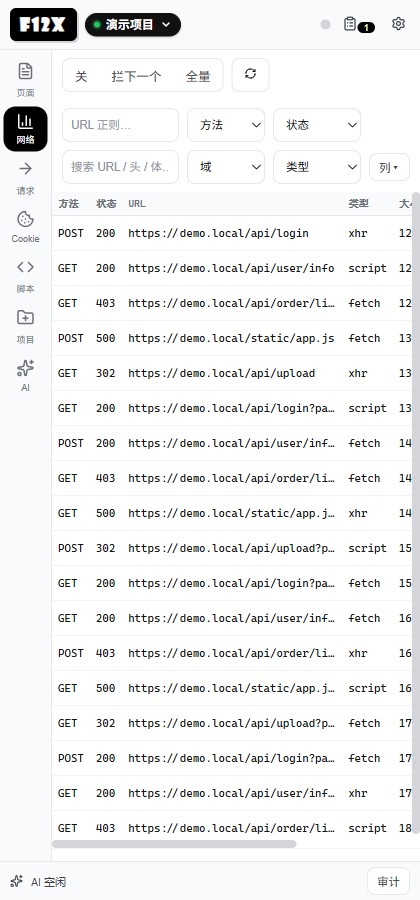
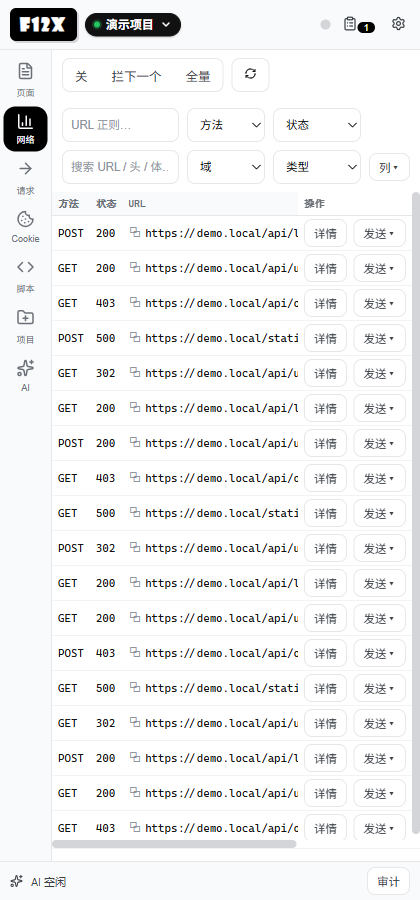
fix: 网络 URL 与 Cookie 值可看全、可复制
- 通用 copyText（Clipboard API + execCommand 降级 + toast）
- 网络：URL 单元格内嵌 ⧉ 复制完整 URL；详情顶部固定完整 URL 条 + 「复制 URL」；操作列吸附右侧
- Cookie：始终取回真实值（显示由「显示值」控制，复制不再受开关影响）；勾选时明文显示且长值换行；点击值复制；行内「复制」；工具栏「复制全部」（name=value; domain; path）
- 表格：Cookie 表 width=max-content，避免列被压成单字；掩码/明文两种显示
验证：dev/run.mjs 76/76；UI：URL 复制 167 字符、Cookie 值 47 字符复制成功、掩码下仍可复制、复制全部成功，0 pageerror；手册与截图同步。

Changed region(s): [[0.3095, 0.2178, 0.8048, 0.9333], [0.8357, 0.2178, 0.9905, 0.9333]]

diff --git a/sidepanel/panel.js b/sidepanel/panel.js
@@ -290,6 +290,29 @@ const F12X_ERR_TEXT = {
   TOOL_EXECUTION_ERROR: "工具执行失败", NOT_FOUND: "资源不存在", ABORTED: "已中止"
 };
 // 错误响应对象 → 用户可读文本（有码取映射文案；无码回退原始 error——存量数据兼容）
+// 通用复制：优先 Clipboard API，失败降级 execCommand（扩展页 / 无权限场景）
+async function copyText(text, label = "已复制") {
+  const t = String(text == null ? "" : text);
+  if (!t) { toast("没有可复制的内容"); return false; }
+  let ok = false;
+  try {
+    await navigator.clipboard.writeText(t);
+    ok = true;
+  } catch (e) {
+    try {
+      const ta = document.createElement("textarea");
+      ta.value = t;
+      ta.style.cssText = "position:fixed;left:-9999px;top:0;opacity:0";
+      document.body.appendChild(ta);
+      ta.select();
+      ok = document.execCommand("copy");
+      ta.remove();
+    } catch (e2) { ok = false; }
+  }
+  toast(ok ? (label + "（" + t.length + " 字符）") : "复制失败，请手动选中复制");
+  return ok;
+}
+
 function errMsg(r) {
   const c = r && r.code;
   const m = c && F12X_ERR_TEXT[c];
@@ -732,7 +755,7 @@ function renderNetworkTable() {
     ${pageItems.map(it => `
       <tr data-id="${esc(it.id)}" class="${app.network.selectedId === it.id ? "selected" : ""}">
         ${cols.map(([k]) => k === "url"
-          ? `<td title="${esc(it.url)}">${esc(it.url || "")}</td>`
+          ? `<td class="url-cell" title="${esc(it.url)}"><span class="url-copy" data-copy-url="${esc(it.id)}" title="复制完整 URL">⧉</span>${esc(it.url || "")}</td>`
           : k === "src"
             ? `<td class="src-${esc(it.source || "page")}">${esc(it.source || "page")}${it.intercepted ? " ⚡" : ""}</td>`
             : `<td>${esc(it[k] != null ? String(it[k]) : "-")}</td>`).join("")}
@@ -763,6 +786,12 @@ function renderNetworkTable() {
       openNetworkDetail(id);
       renderNetworkTable();
     });
+    const urlCopy = tr.querySelector(".url-copy");
+    if (urlCopy) urlCopy.addEventListener("click", (e) => {
+      e.stopPropagation();
+      const item = app.network.items.find(i => i.id === id);
+      if (item) copyText(item.url, "已复制 URL");
+    });
     const detailBtn = tr.querySelector('[data-act="detail"]');
     if (detailBtn) detailBtn.addEventListener("click", () => { app.network.selectedId = id; openNetworkDetail(id); renderNetworkTable(); });
     const sendBtn = tr.querySelector('[data-act="send"]');
@@ -781,8 +810,17 @@ function ensureDetailActions(item) {
     actions.className = "net-detail-actions";
     $("net-detail-tabs").parentNode.insertBefore(actions, $("net-detail-tabs"));
   }
+  let urlBar = document.querySelector("#net-detail .net-detail-url");
+  if (!urlBar) {
+    urlBar = document.createElement("div");
+    urlBar.className = "net-detail-url";
+    urlBar.title = "完整 URL（可选中复制）";
+    $("net-detail-tabs").parentNode.insertBefore(urlBar, actions);
+  }
+  urlBar.textContent = item ? (item.url || "") : "";
   if (item) {
     actions.innerHTML = `
+      <button class="mini-btn" data-st="copyurl" title="复制完整 URL">复制 URL</button>
       <button class="mini-btn" data-st="repeater">→ Repeater</button>
       <button class="mini-btn" data-st="intruder">→ Intruder</button>
       <button class="mini-btn" data-st="decoder">→ Decoder</button>
@@ -790,6 +828,7 @@ function ensureDetailActions(item) {
       <button class="mini-btn" data-st="ai">→ AI</button>
       <button class="mini-btn" data-st="mark">标记为发现</button>
       <button class="mini-btn" data-st="issue">→ Issue</button>`;
+    actions.querySelector('[data-st="copyurl"]').addEventListener("click", () => copyText(item.url, "已复制 URL"));
     actions.querySelector('[data-st="repeater"]').addEventListener("click", () => sendToRepeater(item));
     actions.querySelector('[data-st="intruder"]').addEventListener("click", () => sendToIntruder(item));
     actions.querySelector('[data-st="decoder"]').addEventListener("click", () => sendToDecoder(item));
@@ -1308,13 +1347,20 @@ async function decRun() {
 // ============================================================
 function initCookieModule() {
   $("cookie-refresh").addEventListener("click", loadCookies);
+  const copyAll = $("cookie-copy-all");
+  if (copyAll) copyAll.addEventListener("click", () => {
+    const lines = cookieData.filter((c) => c.value).map((c) => c.name + "=" + c.value + "; domain=" + c.domain + "; path=" + c.path);
+    if (!lines.length) return toast("没有可复制的 Cookie 值");
+    copyText(lines.join("\n"), "已复制 " + lines.length + " 条 Cookie");
+  });
   $("cookie-filter").addEventListener("input", renderCookies);
   $("cookie-show-values").addEventListener("change", () => { loadCookies(); });
 }
 
 let cookieData = [];
 async function loadCookies() {
-  const includeValues = $("cookie-show-values").checked;
+  // 始终取回真实值：界面按开关决定是否明文显示，复制永远可用
+  const includeValues = true;
   const r = await api("tool:cookies", { includeValues });
   if (!r.ok) { $("cookie-table-wrap").innerHTML = `<div class="placeholder">Cookie 读取失败：${esc(r.error)}</div>`; return; }
   cookieData = r.cookies || [];
@@ -1328,17 +1374,19 @@ function maskVal(v) {
 }
 
 function renderCookies() {
+  const showValues = !!$("cookie-show-values").checked;
   const f = $("cookie-filter").value.toLowerCase();
   const items = cookieData.filter(c => !f || (c.name + c.domain).toLowerCase().includes(f));
   const wrap = $("cookie-table-wrap");
   wrap.innerHTML = `<table class="cookie-table"><thead><tr><th>名称</th><th>值</th><th>域</th><th>路径</th><th>标志</th><th>操作</th></tr></thead><tbody>
     ${items.map(c => `<tr>
       <td>${esc(c.name)}</td>
-      <td class="val cookie-val" data-full="${esc(c.value ?? "")}">${esc(maskVal(c.value))}</td>
+      <td class="val cookie-val${showValues ? " val-full" : ""}" data-full="${esc(c.value ?? "")}" title="${showValues ? "点击复制完整值" : "点击复制完整值（当前掩码显示）"}">${esc(showValues ? (c.value || "") : maskVal(c.value))}</td>
       <td>${esc(c.domain)}</td>
       <td>${esc(c.path)}</td>
       <td>${c.httpOnly ? "H" : ""}${c.secure ? "S" : ""}${c.sameSite ? "·" + esc(c.sameSite) : ""}</td>
       <td>
+        <button class="mini-btn" data-copy="${esc(c.name)}" title="复制完整值">复制</button>
         <button class="mini-btn" data-edit="${esc(c.name)}">编辑</button>
         <button class="mini-btn" data-del="${esc(c.name)}">删除</button>
       </td>
@@ -1348,15 +1396,15 @@ function renderCookies() {
     const c = cookieData.find(x => x.name === b.dataset.edit);
     if (c) editCookie(c);
   }));
-  // 值脱敏（方案 3.1：默认掩码显示，点击切换完整值）
+  // 点击值复制（掩码与否都可复制真实值）
   wrap.querySelectorAll(".cookie-val").forEach(el => {
-    el.title = "点击查看完整值";
-    el.addEventListener("click", () => {
-      const full = el.dataset.full || "";
-      if (el.dataset.masked !== "1") { el.dataset.masked = "1"; el.textContent = full || "…"; el.title = "点击隐藏"; }
-      else { delete el.dataset.masked; el.textContent = maskVal(full); el.title = "点击查看完整值"; }
-    });
+    el.title = "点击复制完整值";
+    el.addEventListener("click", () => copyText(el.dataset.full || "", "已复制 Cookie 值"));
   });
+  wrap.querySelectorAll("[data-copy]").forEach(b => b.addEventListener("click", () => {
+    const c = cookieData.find(x => x.name === b.dataset.copy);
+    if (c) copyText(c.value || "", "已复制 Cookie「" + c.name + "」");
+  }));
   wrap.querySelectorAll('[data-del]').forEach(b => b.addEventListener("click", async () => {
     const c = cookieData.find(x => x.name === b.dataset.del);
     if (!c) return;

diff --git a/sidepanel/styles.css b/sidepanel/styles.css
@@ -269,10 +269,10 @@ body.resizing-h { cursor: ew-resize !important; user-select: none; }
 
 /* ---------- Cookie ---------- */
 #cookie-table-wrap { flex: 1; min-height: 0; overflow: auto; }
-.cookie-table { width: 100%; border-collapse: collapse; font-size: 11px; font-family: var(--mono); }
+.cookie-table { width: max-content; min-width: 100%; border-collapse: collapse; font-size: 11px; font-family: var(--mono); }
 .cookie-table th { position: sticky; top: 0; background: var(--surface-2); color: var(--text-3); text-align: left; padding: 4px 6px; font-size: 10px; }
-.cookie-table td { padding: 3px 6px; border-bottom: 1px solid var(--surface-3); word-break: break-all; }
-.cookie-table td.val { max-width: 180px; overflow: hidden; text-overflow: ellipsis; white-space: nowrap; }
+.cookie-table td { padding: 3px 6px; border-bottom: 1px solid var(--surface-3); word-break: normal; white-space: nowrap; }
+.cookie-table td.val { max-width: 240px; overflow: hidden; text-overflow: ellipsis; white-space: nowrap; }
 
 /* ---------- 脚本 ---------- */
 #script-layout { display: flex; flex: 1; min-height: 0; }
@@ -1852,3 +1852,28 @@ body {
   box-shadow: 0 0 0 3px rgba(65, 118, 230, .14);
 }
 #view-network .net-filters .text-input { padding-right: 10px; }
+/* 可复制 / 可读全：网络 URL、Cookie 值 */
+.net-table td.url-cell { cursor: help; }
+.net-detail-url {
+  padding: 5px 8px; border-bottom: 1px solid var(--surface-4);
+  font-family: var(--mono); font-size: 10.5px; line-height: 1.5; color: var(--text-2);
+  word-break: break-all; user-select: text; background: var(--surface-2);
+}
+.cookie-table td.val { max-width: 240px; cursor: copy; }
+.cookie-table td.val:hover { color: var(--brand, #4176e6); }
+
+/* 网络 URL 单元格内的复制图标 */
+.net-table td.url-cell { cursor: pointer; }
+.url-copy {
+  display: inline-block; width: 14px; margin-right: 3px; text-align: center;
+  color: var(--text-4, #999); cursor: copy; user-select: none;
+}
+.url-copy:hover { color: var(--brand, #4176e6); }
+
+.cookie-table td.val.val-full { white-space: normal; word-break: break-all; overflow: visible; text-overflow: clip; }
+
+/* 网络表：操作列吸附右侧（URL 复制图标在单元格内，操作无需横向滚动） */
+.net-table th:last-child, .net-table td:last-child {
+  position: sticky; right: 0; background: var(--surface-1); z-index: 2;
+  box-shadow: -4px 0 6px rgba(0, 0, 0, .05);
+}

diff --git a/sidepanel/index.html b/sidepanel/index.html
@@ -240,6 +240,7 @@
           <div class="toolbar wrap">
             <input id="cookie-filter" class="text-input flex" placeholder="域名/名称过滤…" />
             <label class="mini-label"><input id="cookie-show-values" type="checkbox" checked /> 显示值</label>
+            <button id="cookie-copy-all" class="mini-btn" title="复制 名称=值（每行一个，可用于请求头）">复制全部</button>
             <button id="cookie-refresh" class="ctrl-btn"><span data-icon="refresh-cw" data-size="12"></span></button>
           </div>
           <div id="cookie-table-wrap"></div>
